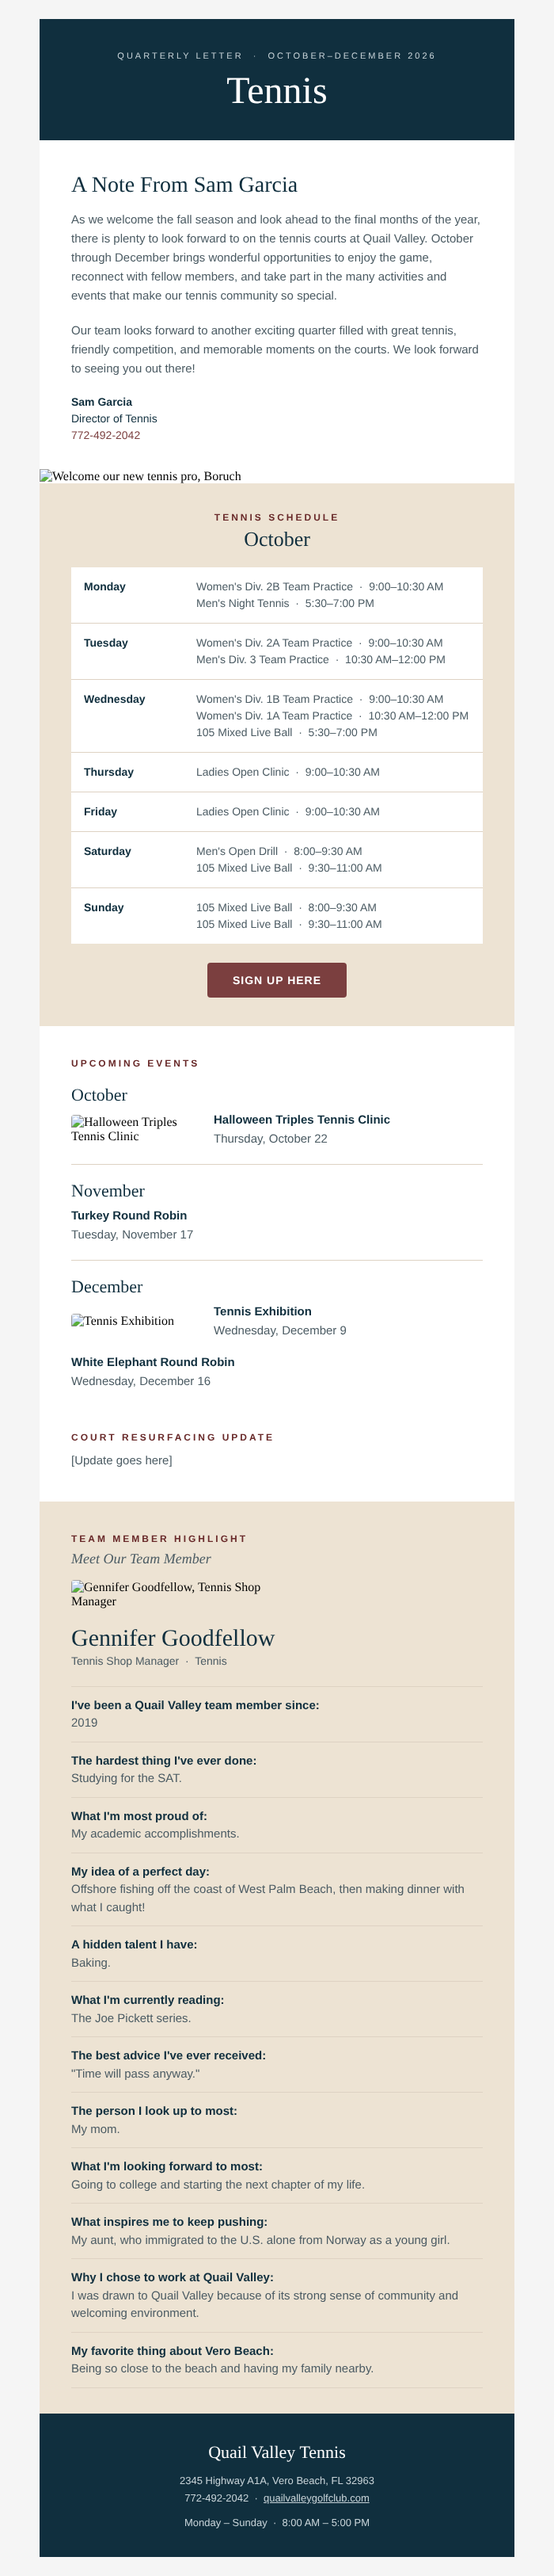
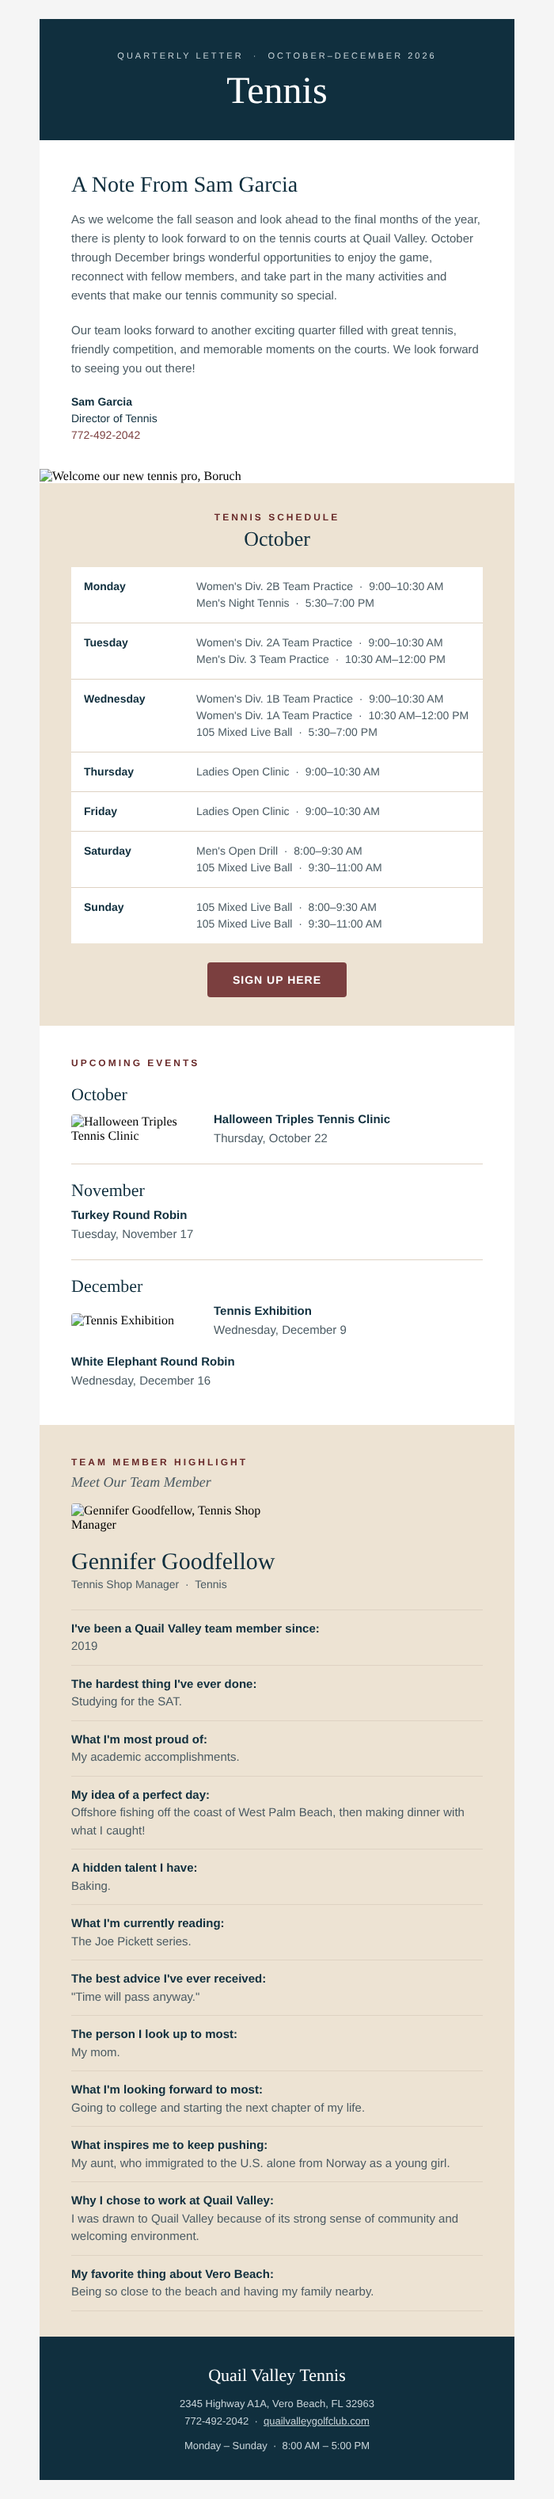
Remove resurfacing update; link Sign Up button to tennis shop phone
Claude-Session: https://claude.ai/code/session_01XJyps8eJmZhnKvGFthYi4y

diff --git a/emails/tennis-quarterly-q4-2026.html b/emails/tennis-quarterly-q4-2026.html
@@ -60,7 +60,7 @@
               <p style="margin:0; font-family:Arial, Helvetica, sans-serif; font-size:14px; line-height:1.5; color:#102f3e;">
                 <strong>Sam Garcia</strong><br>
                 Director of Tennis<br>
-                <a href="tel:7724922042" style="color:#7b3f3f; text-decoration:none;">772-492-2042</a>
+                <a href="tel:+17724922042" style="color:#7b3f3f; text-decoration:none;">772-492-2042</a>
               </p>
             </td>
           </tr>
@@ -117,7 +117,7 @@
               <table role="presentation" cellpadding="0" cellspacing="0" border="0">
                 <tr>
                   <td align="center" style="background-color:#7b3f3f; border-radius:4px;">
-                    <a href="#" style="display:inline-block; padding:14px 32px; font-family:Arial, Helvetica, sans-serif; font-size:14px; font-weight:bold; letter-spacing:1px; text-transform:uppercase; color:#ffffff; text-decoration:none;">
+                    <a href="tel:+17724922042" style="display:inline-block; padding:14px 32px; font-family:Arial, Helvetica, sans-serif; font-size:14px; font-weight:bold; letter-spacing:1px; text-transform:uppercase; color:#ffffff; text-decoration:none;">
                       Sign Up Here
                     </a>
                   </td>
@@ -128,7 +128,7 @@
 
           <!-- UPCOMING EVENTS -->
           <tr>
-            <td class="px" style="padding:40px 40px 16px;">
+            <td class="px" style="padding:40px 40px 24px;">
               <p style="margin:0 0 20px; font-family:Arial, Helvetica, sans-serif; font-size:12px; letter-spacing:3px; text-transform:uppercase; color:#692a2a; font-weight:bold;">
                 Upcoming Events
               </p>
@@ -178,18 +178,6 @@
             </td>
           </tr>
 
-          <!-- COURT RESURFACING -->
-          <tr>
-            <td class="px" style="padding:16px 40px 40px;">
-              <p style="margin:0 0 10px; font-family:Arial, Helvetica, sans-serif; font-size:12px; letter-spacing:3px; text-transform:uppercase; color:#692a2a; font-weight:bold;">
-                Court Resurfacing Update
-              </p>
-              <p style="margin:0; font-family:Arial, Helvetica, sans-serif; font-size:15px; line-height:1.6; color:#4b5b63;">
-                [Update goes here]
-              </p>
-            </td>
-          </tr>
-
           <!-- TEAM MEMBER HIGHLIGHT -->
           <tr>
             <td class="px" style="background-color:#ede3d3; padding:40px 40px 32px;">
@@ -234,7 +222,7 @@
               </p>
               <p style="margin:0 0 12px; font-family:Arial, Helvetica, sans-serif; font-size:13px; line-height:1.7; color:#c7d3d8;">
                 2345 Highway A1A, Vero Beach, FL 32963<br>
-                <a href="tel:7724922042" style="color:#c7d3d8; text-decoration:none;">772-492-2042</a>
+                <a href="tel:+17724922042" style="color:#c7d3d8; text-decoration:none;">772-492-2042</a>
                 &nbsp;·&nbsp;
                 <a href="https://quailvalleygolfclub.com" style="color:#c7d3d8; text-decoration:underline;">quailvalleygolfclub.com</a>
               </p>
